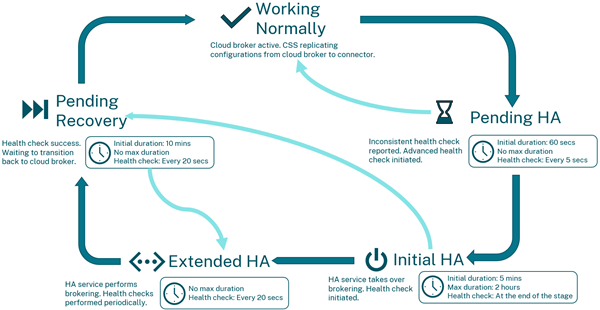
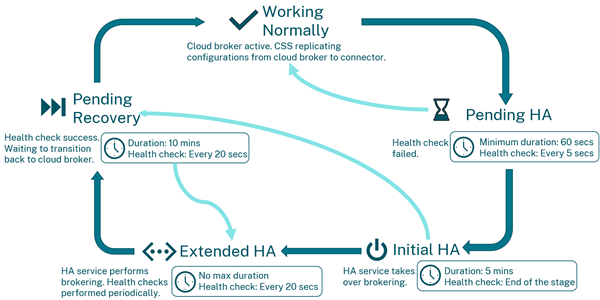
Some minor edits; state dig. image updated; added labels to all diagrams.

Changed region(s): [[0.0, 0.0, 1.0, 1.0], [0.66, 0.66, 0.69, 0.69]]

diff --git a/en-us/tech-zone/learn/tech-briefs/local-host-cache-ha-cvads.md b/en-us/tech-zone/learn/tech-briefs/local-host-cache-ha-cvads.md
@@ -15,12 +15,14 @@ Local Host Cache is a combination of several services and components which come 
 
 [![Citrix Virtual Apps and Desktops - Normal Operations](/en-us/tech-zone/learn/media/tech-briefs_local-host-cache-ha-cvads_citrix-cloud-conceptual-lowres.png)](/en-us/tech-zone/learn/media/tech-briefs_local-host-cache-ha-cvads_citrix-cloud-conceptual-originalres.png)
 
+*Figure 1: Conceptual representation of CVAD service showcasing components relevant for HA mode*
+
 ## Cloud Connector Components
 
 There are several components within the Citrix Cloud Connector which are required for the Local Host Cache operations.
 
 -  **Configuration Synchronizer Service:** The Configuration Synchronizer Service (CSS) periodically checks with the cloud broker (every 60 seconds) to see if any configuration changes were made. The changes can be administrator-initiated (such as changing a delivery group property) or system actions (such as machine assignments). When changes are detected, CSS synchronizes the changes from the cloud broker to the connector machines.
--  **LocalDB:** The connector includes an installation of SQL Server Express LocalDB where a local copy of the configuration is stored (through CSS). A new instance of the database is created for every sync operation. Once the sync is completed successfully, the latest DB instance replaces the prior DB instance.
+-  **LocalDB:** The CSS imports the configuration data into a Microsoft SQL Server Express LocalDB database. A new instance of the database is created for every sync operation. Once the sync is completed successfully, the latest DB instance replaces the prior DB instance.
 -  **High Availability Service** : The High Availability Service (HA Service) is a specialized Broker Service that provides the runtime brokering functionality during an outage. The HA Service is also referred to as the secondary broker.
 -  **Remote Broker Provider:** The Remote Broker Provider performs several important functions:
     -  It acts as a proxy relaying communication between the Citrix Virtual Delivery Agent (VDA) and the Cloud Broker
@@ -28,6 +30,8 @@ There are several components within the Citrix Cloud Connector which are require
     -  It determines when to switch a resource location between HA mode and normal operation
 
 [![Citrix Virtual Apps and Desktops - Normal Operations](/en-us/tech-zone/learn/media/tech-briefs_local-host-cache-ha-cvads_citrix-cloud-regular-lowres.png)](/en-us/tech-zone/learn/media/tech-briefs_local-host-cache-ha-cvads_citrix-cloud-regular-originalres.png)
+
+*Figure 2: Connector components and services that play a part with HA mode*
 
 Proper sizing of the cloud connector machines is an important step to ensure that appropriate resources are available for the services when in High Availability mode. Review [scale and size considerations](/en-us/citrix-virtual-apps-desktops-service/manage-deployment/local-host-cache-size-and-scale.html) article to learn more.
 
@@ -43,21 +47,25 @@ During HA mode, the HA Service takes over several important brokering functions,
 
 [![Citrix Virtual Apps and Desktops - High Availability Mode](/en-us/tech-zone/learn/media/tech-briefs_local-host-cache-ha-cvads_citrix-cloud-ha-lowres.png)](/en-us/tech-zone/learn/media/tech-briefs_local-host-cache-ha-cvads_citrix-cloud-ha-originalres.png)
 
+*Fig: Resource Location operating in HA mode*
+
 ## Entering/Exiting High Availability Mode
 
 The decision to transition to HA mode is dependent upon enumeration and launch traffic flowing through a given Cloud Connector instance. Only connector machine which have been configured as a Delivery Controller in StoreFront will support HA mode detection and transition. This optimization is necessary to prevent unnecessary VDA registrations.
 
-There are several stages during the entire cycle of entering and exiting HA mode. During the **Working Normally** state, all components are healthy and all brokering transactions are handled by the cloud broker. The CSS is actively replicating the configurations from the cloud broker to the connector machines.
+There are several states during the entire cycle of entering and exiting HA mode. During the **Working Normally** state, all components are healthy and all brokering transactions are handled by the cloud broker. The CSS is actively replicating the configurations from the cloud broker to the connector machines.
 
-In case some of the components fail to report healthy, the connector transitions to the **Pending HA** state. When in this stage, a comprehensive health check is initiated to determine the next course of action. The connectors interact with other connectors in the resource location to determine their health status. The decision to move from Pending HA to Initial HA is based on the health status of all the connectors in a given resource location. If the health checks are successful, the connectors transition back to the Working Normally state. Alternatively if the health checks continue to be erratic, the connectors transition to the Initial HA stage.
+In case some of the components fail to report healthy, the connector transitions to the **Pending HA** state. When in this state, a comprehensive health check is initiated to determine the next course of action. The connectors interact with other connectors in the resource location to determine their health status. The decision to move from Pending HA to Initial HA is based on the health status of all the connectors in a given resource location. If the health checks are successful, the connectors transition back to the Working Normally state. Alternatively if the health checks continue to fail, the connectors transition to the Initial HA state.
 
 [![LHC State Diagram](/en-us/tech-zone/learn/media/tech-briefs_local-host-cache-ha-cvads_ha-state-diagram-lowres.png)](/en-us/tech-zone/learn/media/tech-briefs_local-host-cache-ha-cvads_ha-state-diagram-originalres.png)
 
-During the **Initial HA** stage, the High Availability Service on the connector takes over brokering responsibilities. All VDAs in the current resource location that were registered with the cloud broker will register with the HA Service / secondary broker on the connector. At the end of Initial HA, a health check takes place. If all health checks succeed, the state transitions to Pending Recovery, otherwise the state transitions to Extended HA.
+*Fig: Connector states for entering/existing HA mode*
 
-Health checks continue during the **Extended HA** period and when all the health checks succeed, the state transitions to Pending Recovery. There is no minimum time duration for a connector to remain in the Extended HA state.
+During the **Initial HA** state, the High Availability Service on the connector takes over brokering responsibilities. All VDAs in the current resource location that were registered with the cloud broker will register with the HA Service / secondary broker on the connector. At the end of Initial HA, health checks are initiated. If all health checks succeed, the state transitions to Pending Recovery, otherwise the state transitions to Extended HA.
 
-**Pending Recovery** serves as a waiting period, where all components are healthy, before handing off brokering back to the cloud broker. If any of the health checks fail during Pending Recovery, the state transitions back to Extended HA. If all the health checks succeed during the entirety of the Pending Recovery period, then the state transitions to Working Normally. With this transition, the HA mode has exited, and all the VDAs in the resource location that were registered with the secondary Broker now re-register with the cloud broker.
+Health checks continue during the **Extended HA** period and when all the health checks succeed, the state transitions to Pending Recovery. There is no maximum time duration for a connector to remain in the Extended HA state.
+
+**Pending Recovery** serves as a waiting period, where all components are healthy, before handing off brokering back to the cloud broker. If any of the health checks fail during Pending Recovery, the state transitions back to Extended HA. If all the health checks succeed during the entirety of the Pending Recovery period, then the state transitions to Working Normally. With this transition, HA mode has exited, and all the VDAs in the resource location that were registered with the secondary Broker now re-register with the cloud broker.
 
 ## CVAD service instance with multiple Resource Locations
 
@@ -89,6 +97,8 @@ The event log provides information about elections. For more information on the 
 The on-premises StoreFront sends a heartbeat message to all the Cloud Connectors configured in its store every 60 seconds by default. Only healthy Cloud Connectors (that respond successfully to the heartbeat) are considered for load balancing app enumeration and launch requests. The same heartbeat request to the Cloud Connectors also activates the connector to participate in the HA mode algorithm described in the preceding sections. To ensure that all resource locations are enabled to perform in HA mode, it is critical to ensure that the on-premises StoreFront has all the Cloud Connectors identified as Delivery Controllers in the StoreFront configuration. Failure to have appropriate StoreFront configurations might result in loss of capacity when the site enters HA mode.
 
 [![Citrix Virtual Apps and Desktops - Normal Operations](/en-us/tech-zone/learn/media/tech-briefs_local-host-cache-ha-cvads_lhc-multiple-resource-locations-lowres.png)](/en-us/tech-zone/learn/media/tech-briefs_local-host-cache-ha-cvads_lhc-multiple-resource-locations-originalres.png)
+
+*Fig: Deployment with multiple Resource Locations where one RL is not HA ready due to missing configurations*
 
 ### HA mode for resource locations publishing the same apps/desktops
 
@@ -123,6 +133,8 @@ For architectures involving Citrix ADC with resource locations publishing differ
 -  Set up the ADC load balancer to monitor the Cloud Connectors in each resource location via the CITRIX-XD-DDC monitor.
 
 [![Citrix Virtual Apps and Desktops - Normal Operations](/en-us/tech-zone/learn/media/tech-briefs_local-host-cache-ha-cvads_lhc-adc-lowres.png)](/en-us/tech-zone/learn/media/tech-briefs_local-host-cache-ha-cvads_lhc-adc-originalres.png)
+
+*Fig: Deployment with multiple Resource Locations and Citrix ADC*
 
 ## Pooled Desktop VDA Workload Considerations
 
